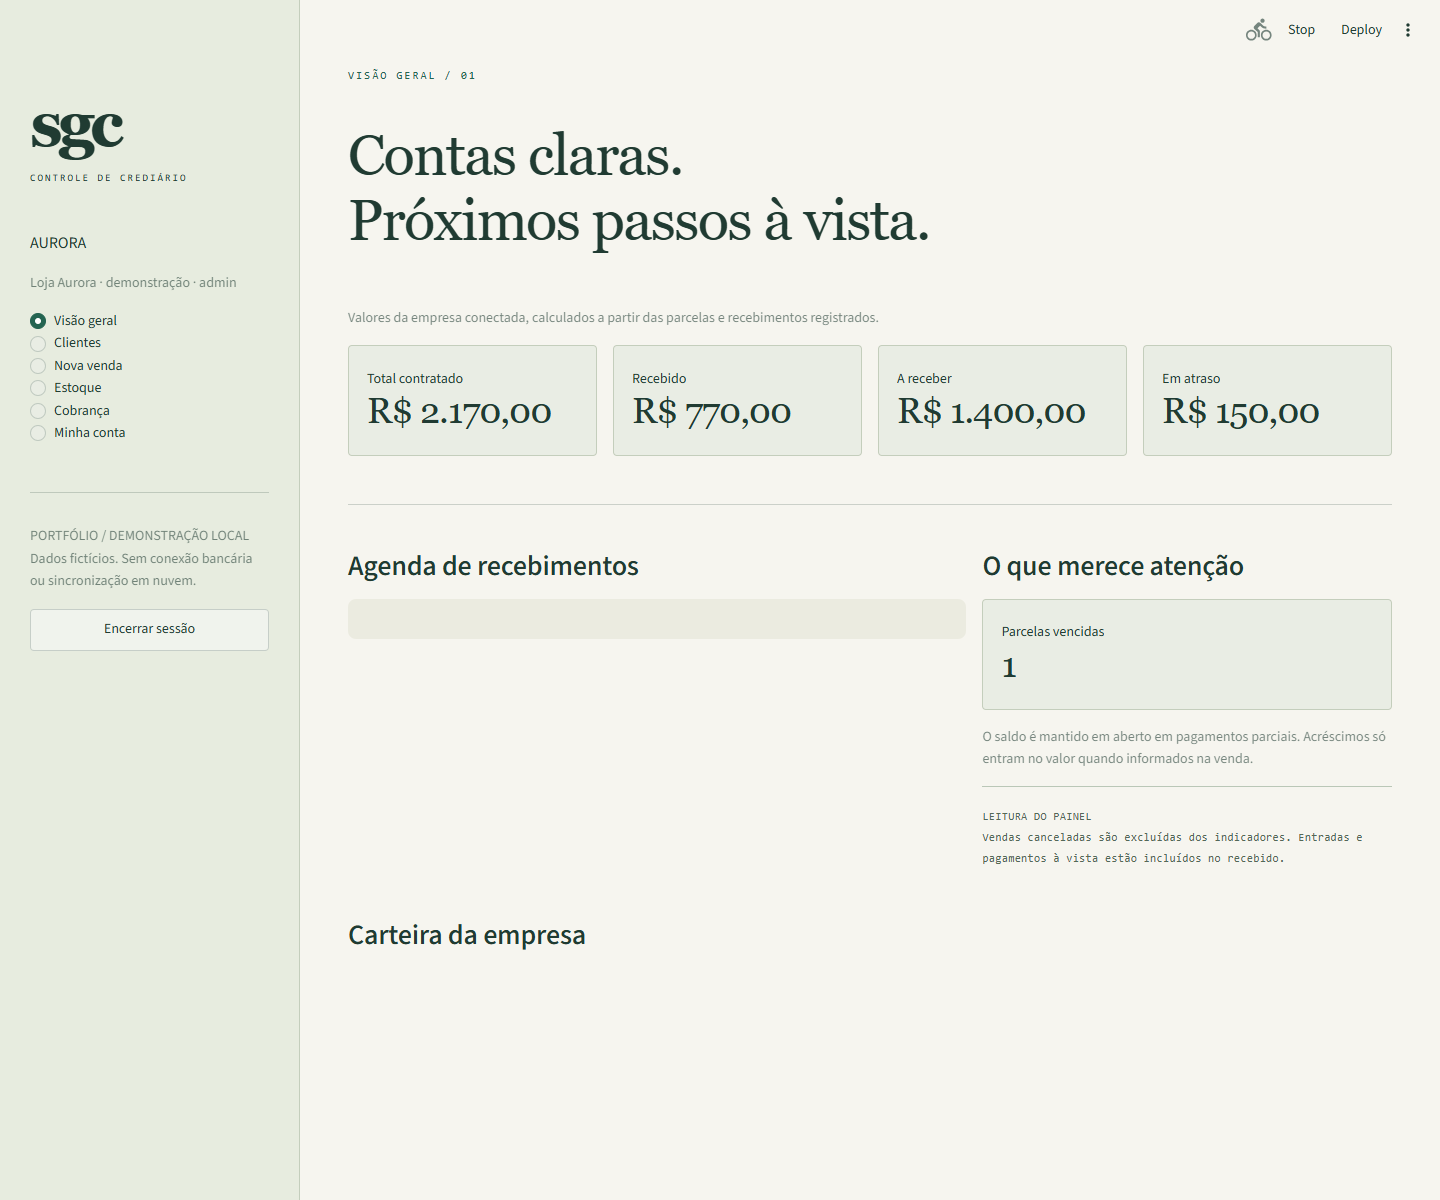
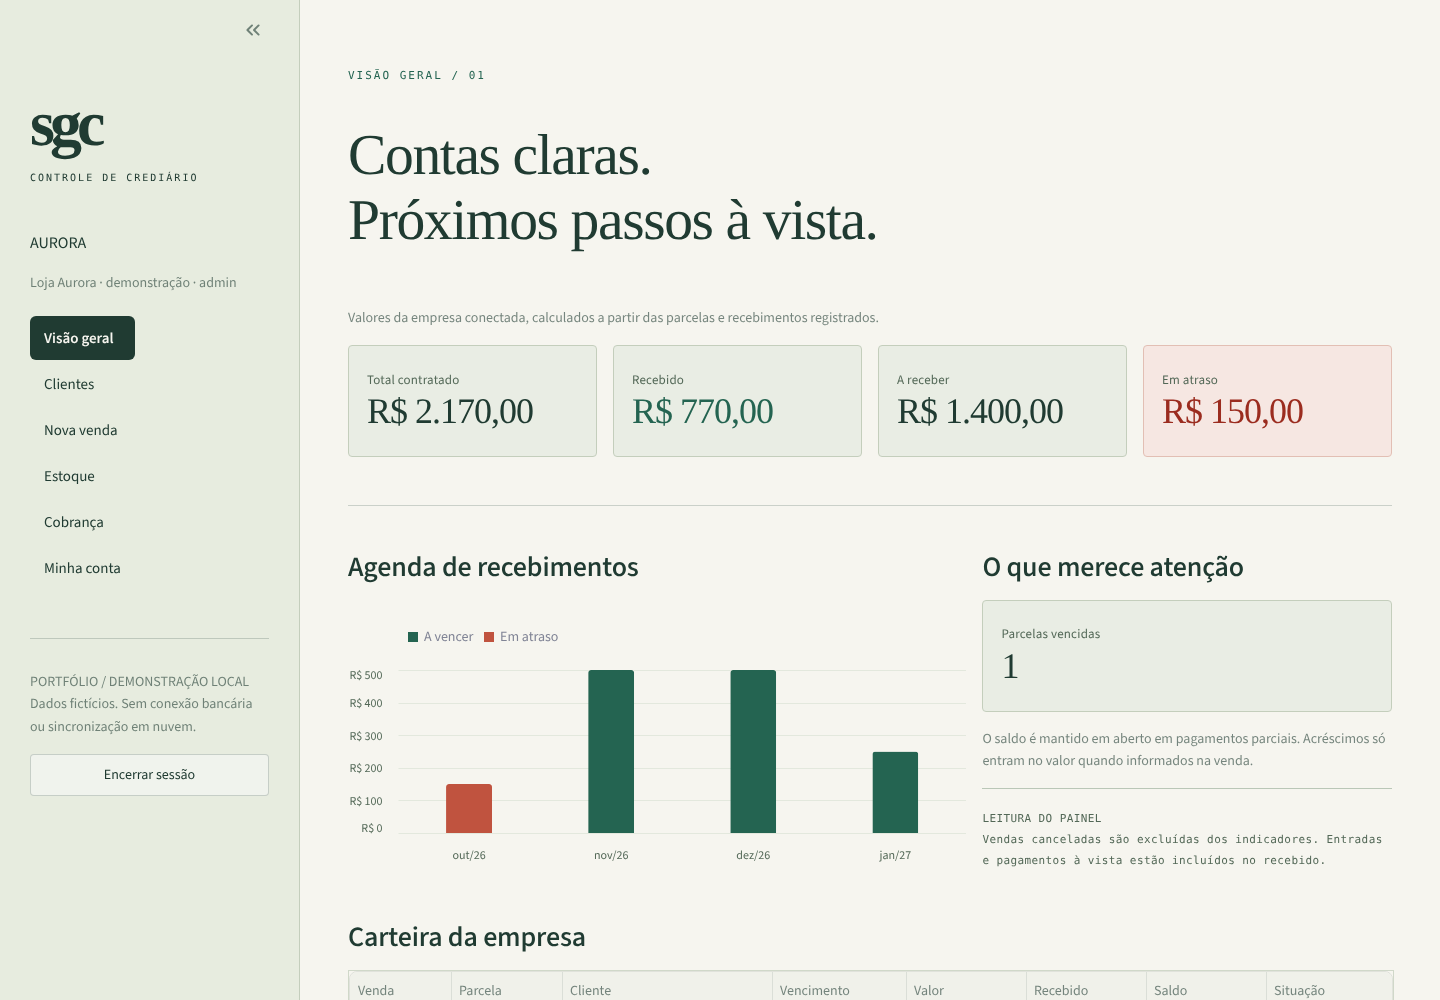
Refina o painel e renova o README com novas capturas
- Gráfico de recebimentos com meses em português e parcelas em atraso destacadas
- Situação das parcelas colorida; indicadores com alerta para atraso
- Menu lateral estilizado, formulário de venda em colunas e datas DD/MM/AAAA
- Barra de deploy do Streamlit oculta; indicadores 2x2 no celular

Claude-Session: https://claude.ai/code/session_01LdtTFLWZWtJoP9h3ie8M7q

diff --git a/sgc/assets/app.css b/sgc/assets/app.css
@@ -16,5 +16,20 @@ h2,h3 {font-weight:550 !important;letter-spacing:-.5px;}
 .stButton button,.stFormSubmitButton button {border-radius:4px;min-height:42px;}
 [data-testid="stDataFrame"] {border:1px solid #d0d8c9;}
 button:focus-visible,input:focus-visible {outline:3px solid #528c72 !important;outline-offset:2px;}
-@media(max-width:700px) {[data-testid="stMainBlockContainer"] {padding:2rem 1.1rem;} h1.hero {font-size:3.2rem !important;} [data-testid="stMetric"] {padding:14px;} }
+/* Menu lateral: o rádio do Streamlit vira navegação */
+[data-testid="stSidebar"] [role="radiogroup"] {gap:2px;margin-top:6px;width:100%;}
+[data-testid="stSidebar"] [role="radiogroup"] > div {width:100%;display:block;}
+[data-testid="stSidebar"] [data-testid="stRadioOption"] {display:flex;box-sizing:border-box;width:100%;max-width:none;padding:10px 14px;border-radius:6px;margin:0;cursor:pointer;transition:background .15s;}
+[data-testid="stSidebar"] [data-testid="stRadioOption"]:hover {background:#dbe3d3;}
+[data-testid="stSidebar"] [data-testid="stRadioOption"] > div > div:not([data-testid="stMarkdownContainer"]) {display:none;}
+[data-testid="stSidebar"] [data-testid="stRadioOption"][data-selected="true"] {background:#203b32;}
+[data-testid="stSidebar"] [data-testid="stRadioOption"][data-selected="true"] p {color:#f6f5ef;font-weight:600;}
+[data-testid="stSidebar"] [data-testid="stRadioOption"] p {font-size:15px;}
+[data-testid="stSidebar"] [data-testid="stRadioOption"]:has(input:focus-visible) {outline:3px solid #528c72;outline-offset:2px;}
+/* Indicadores: "Em atraso" ganha cor de alerta */
+.st-key-kpis [data-testid="stColumn"]:last-child [data-testid="stMetric"] {background:#f6e7e2;border-color:#e2bfb4;}
+.st-key-kpis [data-testid="stColumn"]:last-child [data-testid="stMetricValue"] {color:#9b2c1f;}
+.st-key-kpis [data-testid="stColumn"]:nth-child(2) [data-testid="stMetricValue"] {color:#246451;}
+[data-testid="stMetricLabel"] p {font-size:13px;letter-spacing:.2px;color:#536857;}
+@media(max-width:700px) {.st-key-kpis [data-testid="stHorizontalBlock"] {flex-flow:row wrap !important;gap:10px !important;} .st-key-kpis [data-testid="stColumn"] {flex:1 1 calc(50% - 10px) !important;min-width:calc(50% - 10px) !important;width:auto !important;} .st-key-kpis [data-testid="stMetricValue"] {font-size:1.5rem !important;} [data-testid="stMainBlockContainer"] {padding:2rem 1.1rem;} h1.hero {font-size:3.2rem !important;} [data-testid="stMetric"] {padding:14px;} }
 @media(prefers-reduced-motion:reduce) {*,*::before,*::after {animation:none !important;transition:none !important;}}

diff --git a/sgc/ui.py b/sgc/ui.py
@@ -4,6 +4,7 @@ from datetime import date, datetime, timedelta
 from pathlib import Path
 from uuid import uuid4
 
+import altair as alt
 import pandas as pd
 import streamlit as st
 
@@ -57,6 +58,24 @@ def login(db):
         )
 
 
+MONTHS = ["jan", "fev", "mar", "abr", "mai", "jun", "jul", "ago", "set", "out", "nov", "dez"]
+STATUS_STYLE = {
+    "Atrasada": "color:#9b2c1f;background-color:#f6e1dc;font-weight:600",
+    "Em aberto": "color:#7a5a12;background-color:#f6efd9",
+    "Quitada": "color:#1f5a46;background-color:#e1eee6",
+}
+
+
+def month_label(day):
+    return f"{MONTHS[day.month - 1]}/{day.strftime('%y')}"
+
+
+def styled_installments(rows):
+    """Tabela de parcelas com a situação destacada por cor."""
+    table = installment_table(rows)
+    return table.style.map(lambda value: STATUS_STYLE.get(value, ""), subset=["Situação"])
+
+
 def installment_table(rows):
     return pd.DataFrame(
         [
@@ -83,12 +102,13 @@ def overview(service):
         "Valores da empresa conectada, calculados a partir das parcelas e recebimentos registrados."
     )
     summary = service.summary()
-    for column, label, key in zip(
-        st.columns(4),
-        ["Total contratado", "Recebido", "A receber", "Em atraso"],
-        ["total", "paid", "balance", "overdue"],
-    ):
-        column.metric(label, brl(summary[key]))
+    with st.container(key="kpis"):
+        for column, label, key in zip(
+            st.columns(4),
+            ["Total contratado", "Recebido", "A receber", "Em atraso"],
+            ["total", "paid", "balance", "overdue"],
+        ):
+            column.metric(label, brl(summary[key]))
     st.divider()
     left, right = st.columns([1.5, 1])
     rows = service.installments()
@@ -98,16 +118,63 @@ def overview(service):
             monthly = {}
             for row in rows:
                 if row["balance"]:
-                    month = row["due_date"].strftime("%Y-%m")
-                    monthly[month] = monthly.get(month, 0) + row["balance"] / 100
+                    key = row["due_date"].replace(day=1)
+                    overdue = row["due_date"] < date.today()
+                    bucket = monthly.setdefault(key, {"balance": 0, "overdue": 0})
+                    bucket["overdue" if overdue else "balance"] += row["balance"]
             if monthly:
-                chart = pd.DataFrame(
-                    {
-                        "Mês": sorted(monthly),
-                        "Saldo (R$)": [monthly[m] for m in sorted(monthly)],
-                    }
-                ).set_index("Mês")
-                st.bar_chart(chart, color="#246451", height=280)
+                data = pd.DataFrame(
+                    [
+                        {
+                            "Mês": month_label(month),
+                            "Ordem": index,
+                            "Situação": situation,
+                            "Valor": cents / 100,
+                            "Saldo": brl(cents),
+                        }
+                        for index, month in enumerate(sorted(monthly))
+                        for situation, cents in (
+                            ("Em atraso", monthly[month]["overdue"]),
+                            ("A vencer", monthly[month]["balance"]),
+                        )
+                        if cents
+                    ]
+                )
+                chart = (
+                    alt.Chart(data)
+                    .mark_bar(cornerRadiusTopLeft=3, cornerRadiusTopRight=3, size=46)
+                    .encode(
+                        x=alt.X(
+                            "Mês:N",
+                            sort=alt.SortField("Ordem"),
+                            title=None,
+                            axis=alt.Axis(labelAngle=0, labelFontSize=12),
+                        ),
+                        y=alt.Y(
+                            "sum(Valor):Q",
+                            title=None,
+                            axis=alt.Axis(
+                                labelExpr="'R$ ' + replace(format(datum.value, ',.0f'), ',', '.')",
+                                tickCount=5,
+                                grid=True,
+                            ),
+                        ),
+                        color=alt.Color(
+                            "Situação:N",
+                            scale=alt.Scale(
+                                domain=["A vencer", "Em atraso"], range=["#246451", "#c0533f"]
+                            ),
+                            legend=alt.Legend(orient="top", title=None),
+                        ),
+                        tooltip=["Mês", "Situação", "Saldo"],
+                    )
+                    .properties(height=280)
+                    .configure_view(stroke=None)
+                    .configure_axis(
+                        domainColor="#c4cebc", gridColor="#e3e8dd", labelColor="#536857"
+                    )
+                )
+                st.altair_chart(chart, width="stretch")
             else:
                 st.success("Todos os valores registrados foram recebidos.")
         else:
@@ -124,7 +191,7 @@ def overview(service):
         )
     st.subheader("Carteira da empresa")
     if rows:
-        st.dataframe(installment_table(rows), hide_index=True, width="stretch")
+        st.dataframe(styled_installments(rows), hide_index=True, width="stretch")
 
 
 def customers_page(service, role):
@@ -226,14 +293,18 @@ def sale_page(service):
             total += product["price"] * quantity
         st.metric("Subtotal dos produtos", brl(total))
     with st.form("sale"):
-        customer = st.selectbox(
+        top_left, top_right = st.columns([1, 1.4])
+        customer = top_left.selectbox(
             "Cliente da venda",
             customers,
             format_func=lambda r: f"{r['name']} · #{r['id']}",
         )
-        description = st.text_input("Descrição da venda", max_chars=160)
+        description = top_right.text_input(
+            "Descrição da venda", max_chars=160, placeholder="Ex.: jogo de panelas"
+        )
+        price_col, entry_col = st.columns(2)
         amount = (
-            st.number_input(
+            price_col.number_input(
                 "Preço à vista (R$)",
                 min_value=0.01,
                 max_value=1_000_000.0,
@@ -243,20 +314,29 @@ def sale_page(service):
             if mode == "Venda avulsa"
             else total / 100
         )
+        if mode != "Venda avulsa":
+            price_col.caption(f"Preço à vista: soma dos produtos ({brl(total)}).")
+        entry = entry_col.number_input(
+            "Entrada (R$)", min_value=0.0, max_value=1_000_000.0, step=10.0
+        )
         cash = st.checkbox("Pagamento integral à vista")
-        entry = st.number_input("Entrada (R$)", min_value=0.0, max_value=1_000_000.0, step=10.0)
-        count = st.number_input("Número de parcelas", min_value=1, max_value=48, value=3, step=1)
-        first_due = st.date_input(
+        count_col, due_col, interest_col = st.columns(3)
+        count = count_col.number_input(
+            "Número de parcelas", min_value=1, max_value=48, value=3, step=1
+        )
+        first_due = due_col.date_input(
             "Primeiro vencimento",
             value=add_months(date.today(), 1),
             min_value=date.today(),
             max_value=date(2100, 12, 31),
+            format="DD/MM/YYYY",
         )
-        interest = st.number_input(
-            "Acréscimo único sobre o saldo financiado (%)",
+        interest = interest_col.number_input(
+            "Acréscimo único (%)",
             min_value=0.0,
             max_value=100.0,
             step=0.5,
+            help="Incide uma única vez sobre o saldo financiado, depois da entrada.",
         )
         st.caption(
             "À vista: entrada igual ao total, sem acréscimo. No crediário, o acréscimo informado incide uma única vez sobre o saldo após a entrada. Os centavos são distribuídos entre as parcelas."
@@ -287,7 +367,7 @@ def collections_page(service, role):
     rows = service.installments()
     open_rows = [r for r in rows if r["balance"]]
     if rows:
-        st.dataframe(installment_table(rows), hide_index=True, width="stretch")
+        st.dataframe(styled_installments(rows), hide_index=True, width="stretch")
     if open_rows:
 
         def labels(row):
@@ -319,6 +399,7 @@ def collections_page(service, role):
                     "Novo vencimento",
                     min_value=date.today(),
                     max_value=date(2100, 12, 31),
+                    format="DD/MM/YYYY",
                 )
                 if st.form_submit_button("Salvar vencimento"):
                     service.reschedule(selected["id"], due_date)

diff --git a/README.md b/README.md
@@ -1,16 +1,24 @@
+<div align="center">
+
 # SGC · Crediário
 
-### Cada parcela, uma história bem registrada.
+**Cada parcela, uma história bem registrada.**
 
-Aplicação local em Python para acompanhar vendas, estoque e recebimentos parcelados. A demonstração reúne o trabalho de quem vende, de quem recebe e de quem administra a operação, com permissões por perfil e dados separados por empresa.
+Vendas, estoque e recebimentos parcelados em uma aplicação local em Python, com permissões por
+perfil, dados separados por empresa e valores calculados em centavos.
 
-**Python · Streamlit · SQLAlchemy · SQLite · ReportLab · pytest**
+[![Testes](https://github.com/alex10presam-lang/sgc-crediario-Python/actions/workflows/tests.yml/badge.svg)](https://github.com/alex10presam-lang/sgc-crediario-Python/actions/workflows/tests.yml)
+![Python 3.12](https://img.shields.io/badge/Python-3.12-246451?logo=python&logoColor=white)
+![Streamlit](https://img.shields.io/badge/Streamlit-SQLAlchemy-246451?logo=streamlit&logoColor=white)
+![Dados fictícios](https://img.shields.io/badge/demo-dados%20fict%C3%ADcios-e9ede4)
 
-[Executar](#executar-localmente) · [Experimentar](#um-roteiro-para-explorar) · [Arquitetura](docs/architecture.md) · [Testes](#qualidade-e-testes)
+[Executar](#executar-localmente) · [Roteiro](#um-roteiro-para-explorar) · [Arquitetura](docs/architecture.md) · [Testes](#qualidade-e-testes)
 
-![Painel do SGC com dados fictícios](docs/images/dashboard.png)
+</div>
 
-*Captura da aplicação em execução. Empresas, clientes, produtos e valores são fictícios.*
+<img src="docs/images/dashboard.png" alt="Painel do SGC com indicadores, agenda de recebimentos e carteira" width="100%">
+
+<sub>Captura da aplicação em execução. Empresas, clientes, produtos e valores são fictícios.</sub>
 
 ## O projeto
 
@@ -85,15 +93,23 @@ Esses acessos pertencem apenas à base fictícia criada localmente. Não são cr
 
 Os telefones e nomes são exemplos. Use apenas dados fictícios ao experimentar.
 
+### Telas
+
+<table>
+  <tr>
+    <td width="50%"><img src="docs/images/login.png" alt="Tela de acesso"><br><b>Acesso</b> — empresa, usuário e senha; cada perfil vê só o que pode operar.</td>
+    <td width="50%"><img src="docs/images/venda.png" alt="Formulário de nova venda"><br><b>Nova venda</b> — avulsa ou com produtos do estoque, entrada, parcelas e acréscimo único.</td>
+  </tr>
+  <tr>
+    <td><img src="docs/images/cobranca.png" alt="Tabela de parcelas com situação colorida e formulário de recebimento"><br><b>Cobrança</b> — parcelas com situação destacada, pagamento parcial e comprovante.</td>
+    <td><img src="docs/images/estoque.png" alt="Estoque de produtos"><br><b>Estoque</b> — cadastro, reposição e baixa automática na venda.</td>
+  </tr>
+</table>
+
 <details>
-<summary>Ver acesso, venda e cobrança</summary>
-
-![Tela de acesso](docs/images/login.png)
-
-![Registro de venda](docs/images/venda.png)
-
-![Cobrança e recebimentos](docs/images/cobranca.png)
-
+<summary><b>Versão de celular</b> (390 px)</summary>
+<br>
+<img src="docs/images/mobile.png" alt="Painel do SGC em tela de celular" width="300">
 </details>
 
 ## Regras que orientam os cálculos
@@ -150,7 +166,7 @@ python -m ruff format --check sgc tests tools dashboard.py run.py
 
 Os testes cobrem cálculos em centavos, calendário, pagamento parcial, excedente, estorno, estoque concorrente, reenvio de operações, autenticação e isolamento de empresas. As telas também têm testes com `Streamlit AppTest`.
 
-O fluxo de integração contínua está em `.github/workflows/tests.yml`, para Python 3.12 no Linux. As imagens deste README foram capturadas no Edge; o painel foi conferido em largura de 390 px. O comprovante foi renderizado e inspecionado visualmente.
+O fluxo de integração contínua está em `.github/workflows/tests.yml`, para Python 3.12 no Linux. As imagens deste README foram capturadas com a demonstração em execução, em 1440 px e em 390 px. O comprovante foi renderizado e inspecionado visualmente.
 
 ## Dados, backup e publicação
 
